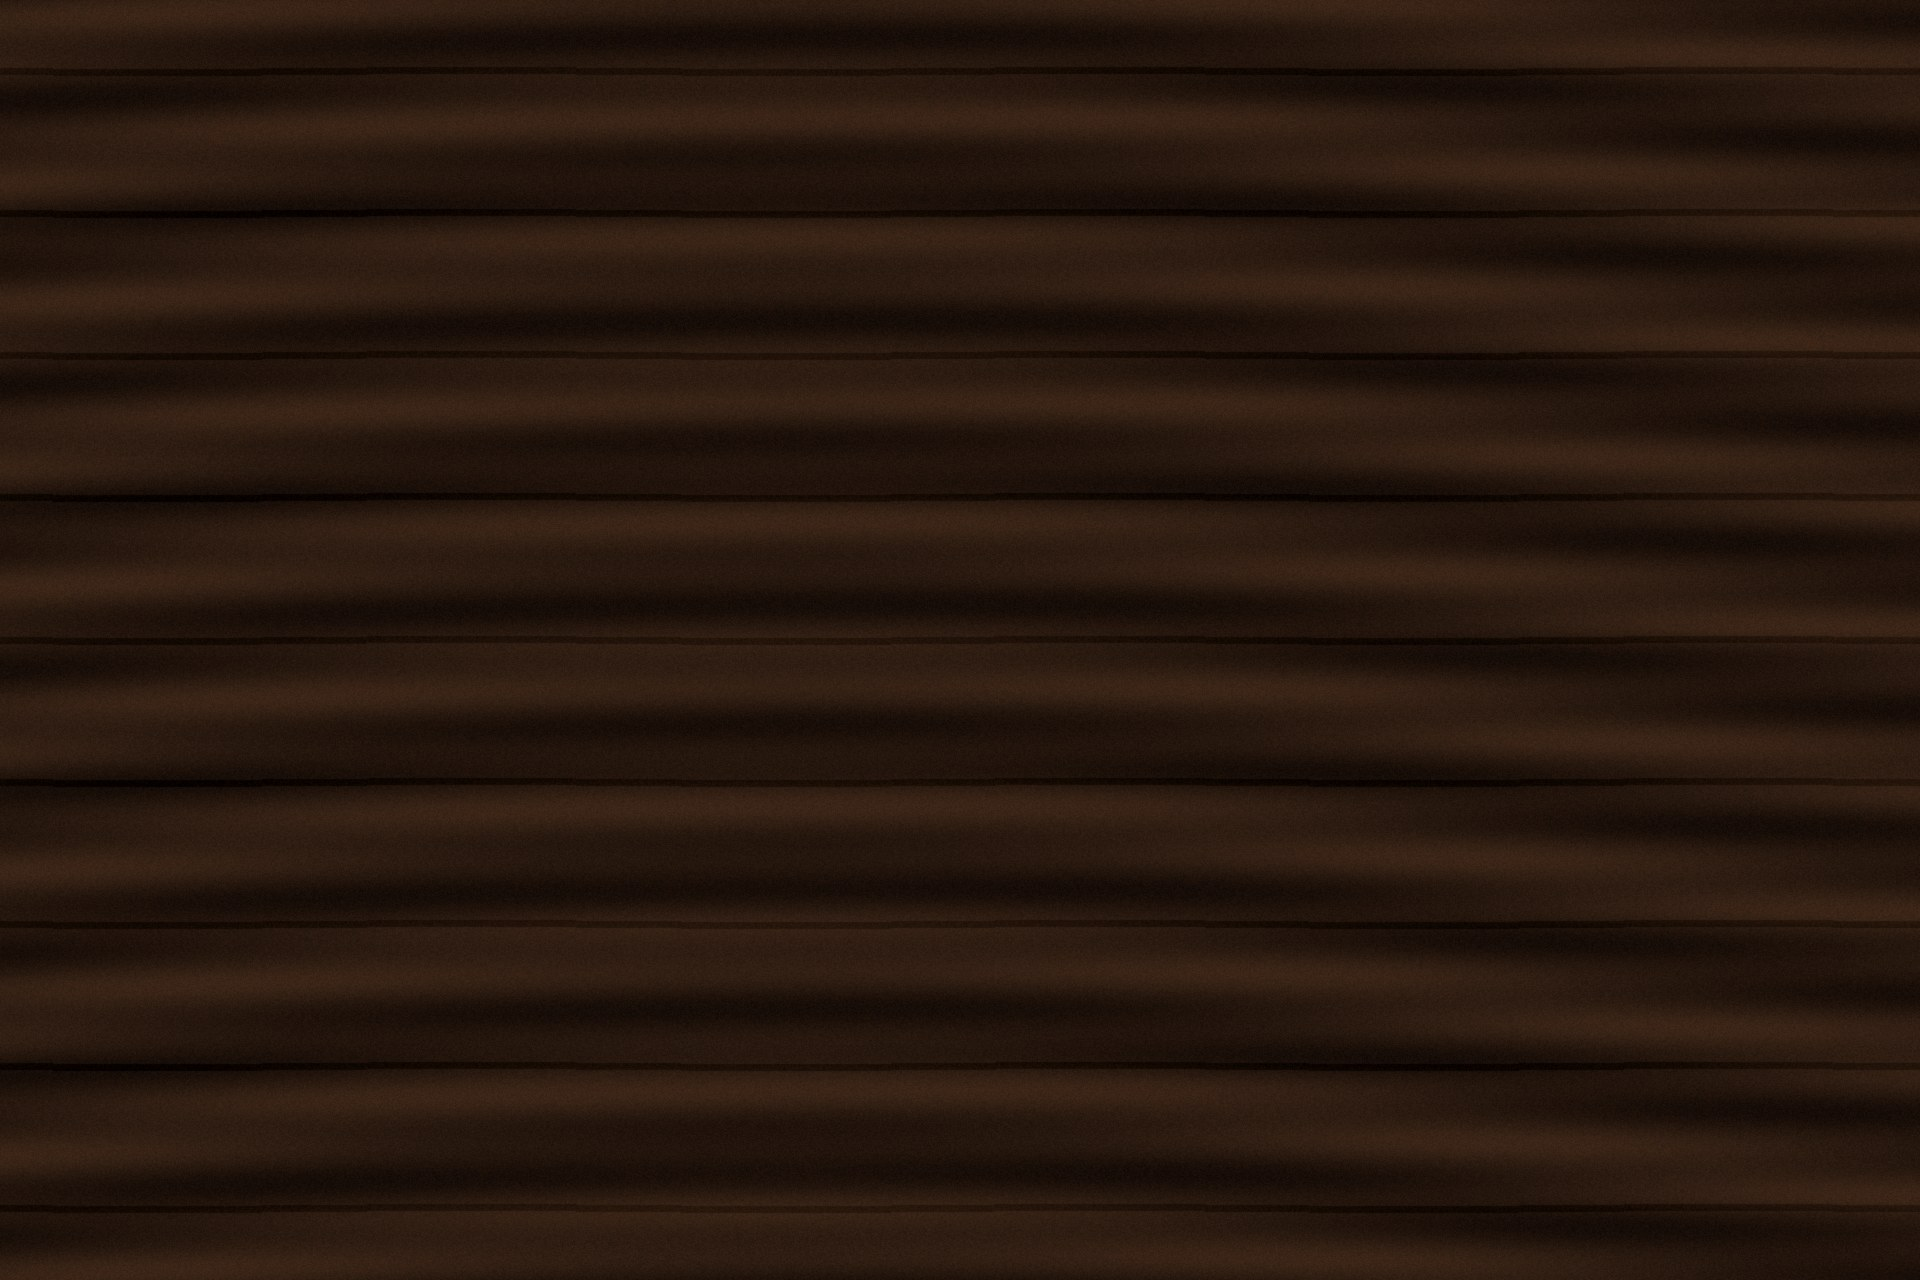
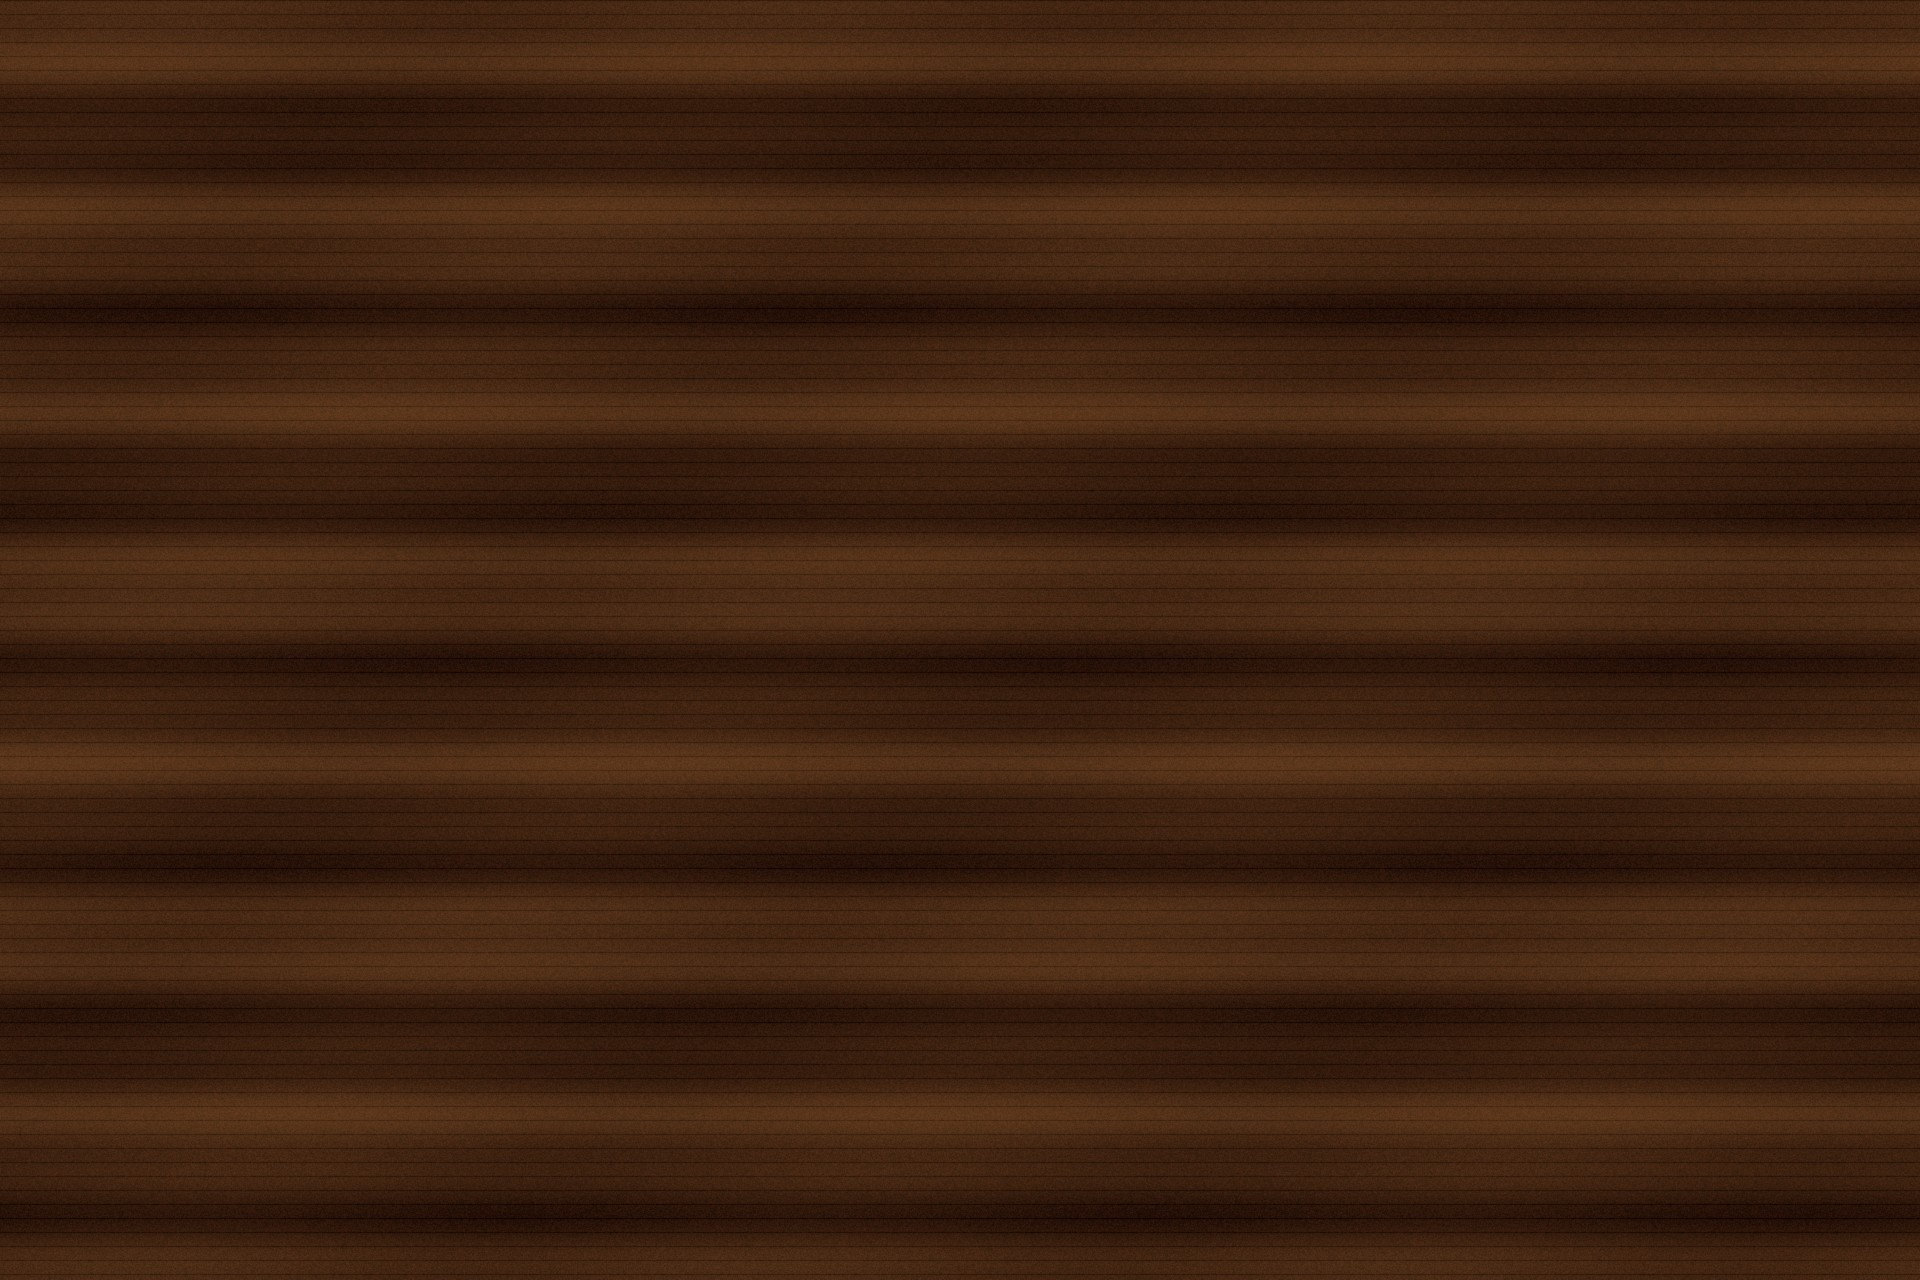
Igualar la composición del video: mesa de madera, café, stylus y lookbook Vinicius.

diff --git a/web/css/app.css b/web/css/app.css
@@ -302,17 +302,18 @@ body.product-page .site-header.scrolled {
 .btn.small { padding: 8px 14px; font-size: 14px; }
 .btn:disabled { opacity: .45; cursor: not-allowed; }
 .btn.touch {
-  background: transparent;
-  color: #fff;
-  border: 1px solid rgba(255, 255, 255, 0.55);
+  background: #fff;
+  color: #111;
+  border: 0;
   border-radius: 8px;
-  padding: 10px 16px;
-  font-size: 12px;
-  letter-spacing: 0.06em;
+  padding: 10px 18px;
+  font-size: 13px;
+  letter-spacing: 0.02em;
   text-transform: none;
   font-weight: 500;
 }
-.btn.touch:hover { background: #fff; color: #111; border-color: #fff; }
+.btn.touch:hover { background: var(--red); color: #fff; }
+body.home .btn.touch { box-shadow: 0 8px 24px rgba(0, 0, 0, 0.35); }
 
 body.home {
   overflow-x: hidden;
@@ -350,28 +351,28 @@ body.home .brand img { height: 36px; }
   overflow: hidden;
   display: grid;
   place-items: center;
-  align-content: center;
-  padding: 70px 2vw 36px;
-  background: #030201;
+  align-content: end;
+  padding: 64px 2vw 8vh;
+  background: #050302;
 }
 .desk-wood {
   position: absolute;
-  inset: -20%;
+  inset: -8% -4% -18%;
   background:
-    url("../assets/desk-wood.jpg") center 60% / cover no-repeat,
-    #120c09;
-  transform: perspective(1600px) rotateX(calc(28deg + var(--my) * 2.5deg)) rotateY(calc(var(--mx) * 1.5deg)) scale(1.22);
-  transform-origin: 50% 60%;
-  filter: contrast(1.14) saturate(0.8) brightness(0.58);
+    url("../assets/desk-wood.jpg") center 45% / cover no-repeat,
+    #2a1c12;
+  transform: perspective(1400px) rotateX(calc(32deg + var(--my) * 2deg)) rotateY(calc(var(--mx) * 1.2deg)) scale(1.15);
+  transform-origin: 50% 70%;
+  filter: contrast(1.08) saturate(0.95) brightness(0.85);
   pointer-events: none;
 }
 .desk-glow {
   position: absolute;
   inset: 0;
   background:
-    radial-gradient(42% 34% at 50% 62%, rgba(255, 214, 170, 0.32), transparent 70%),
-    radial-gradient(28% 22% at 50% 58%, rgba(229, 44, 59, 0.14), transparent 72%),
-    radial-gradient(75% 65% at 50% 55%, transparent 20%, rgba(0, 0, 0, 0.88) 100%);
+    radial-gradient(48% 38% at 50% 68%, rgba(255, 210, 160, 0.38), transparent 72%),
+    radial-gradient(30% 24% at 50% 62%, rgba(229, 44, 59, 0.12), transparent 70%),
+    radial-gradient(80% 70% at 50% 60%, transparent 18%, rgba(0, 0, 0, 0.72) 100%);
   pointer-events: none;
   z-index: 1;
 }
@@ -379,36 +380,52 @@ body.home .brand img { height: 36px; }
   position: absolute;
   inset: 0;
   background:
-    radial-gradient(55% 50% at 50% 48%, transparent 30%, rgba(0, 0, 0, 0.9) 100%),
-    linear-gradient(180deg, rgba(0, 0, 0, 0.6) 0%, transparent 16%, transparent 84%, rgba(0, 0, 0, 0.75) 100%);
+    radial-gradient(70% 58% at 50% 55%, transparent 38%, rgba(0, 0, 0, 0.78) 100%),
+    linear-gradient(180deg, rgba(0, 0, 0, 0.7) 0%, transparent 22%, transparent 78%, rgba(0, 0, 0, 0.55) 100%);
   pointer-events: none;
   z-index: 2;
 }
 .desk-prop {
   position: absolute;
   z-index: 4;
-  width: clamp(70px, 9vw, 140px);
   transform: rotate(var(--rot, 0deg));
-  transition: filter 0.28s ease;
-  filter: drop-shadow(0 24px 20px rgba(0, 0, 0, 0.68));
+  filter: drop-shadow(0 18px 14px rgba(0, 0, 0, 0.55));
   will-change: transform;
 }
-.desk-prop img { width: 100%; height: auto; pointer-events: none; }
-.desk-prop.prop-a { left: 3%; top: 18%; width: clamp(72px, 8vw, 120px); }
-.desk-prop.prop-b { right: 4%; top: 14%; width: clamp(64px, 7vw, 108px); }
-.desk-prop.prop-c { left: 5%; bottom: 10%; width: clamp(40px, 4.5vw, 64px); }
-.desk-prop.prop-d { right: 6%; bottom: 12%; width: clamp(38px, 4.2vw, 60px); }
+.desk-prop img { width: 100%; height: auto; pointer-events: none; display: block; }
+.desk-prop.prop-coffee {
+  right: 5%;
+  top: 16%;
+  width: clamp(110px, 14vw, 190px);
+  transform: none;
+}
+.desk-prop.prop-stylus {
+  left: 6%;
+  bottom: 18%;
+  width: clamp(140px, 18vw, 240px);
+  transform: rotate(-28deg);
+}
+.desk-prop.prop-product {
+  left: 8%;
+  top: 22%;
+  width: clamp(56px, 6vw, 88px);
+}
+.desk-prop.prop-product-b {
+  right: 10%;
+  bottom: 16%;
+  width: clamp(44px, 5vw, 70px);
+}
 .desk-prop:hover {
   z-index: 9;
-  filter: drop-shadow(0 26px 22px rgba(229, 44, 59, 0.4)) brightness(1.08);
+  filter: drop-shadow(0 22px 18px rgba(0, 0, 0, 0.65)) brightness(1.05);
 }
 
 .desk-intro {
   position: absolute;
-  left: clamp(18px, 5vw, 56px);
-  top: 26%;
+  left: clamp(18px, 4.5vw, 48px);
+  top: 18%;
   z-index: 6;
-  max-width: min(34ch, 36vw);
+  max-width: min(32ch, 34vw);
   will-change: opacity, transform;
 }
 .desk-intro h1 {
@@ -444,56 +461,69 @@ body.home .brand img { height: 36px; }
 }
 
 .book-stage {
-  --tilt: 18deg;
+  --tilt: 14deg;
   position: relative;
   z-index: 5;
-  width: min(1240px, 94vw);
-  margin: 4vh auto 0;
-  transform: perspective(1600px) rotateX(calc(var(--tilt) + var(--my) * 2deg)) rotateY(calc(var(--mx) * -1.8deg));
+  width: min(1180px, 92vw);
+  margin: 0 auto;
+  transform: perspective(1500px) rotateX(calc(var(--tilt) + var(--my) * 1.5deg)) rotateY(calc(var(--mx) * -1.2deg));
   transform-style: preserve-3d;
 }
 .book-shadow {
   position: absolute;
-  left: 6%;
-  right: 6%;
-  bottom: -6%;
-  height: 14%;
-  background: radial-gradient(50% 70% at 50% 35%, rgba(0, 0, 0, 0.88), transparent 74%);
-  filter: blur(12px);
+  left: 3%;
+  right: 3%;
+  bottom: -7%;
+  height: 16%;
+  background: radial-gradient(48% 70% at 50% 30%, rgba(0, 0, 0, 0.9), transparent 72%);
+  filter: blur(14px);
   pointer-events: none;
   z-index: 0;
+}
+.book-edge {
+  position: absolute;
+  left: 1%;
+  right: 1%;
+  bottom: -1.2%;
+  height: 2.2%;
+  border-radius: 0 0 3px 3px;
+  background: linear-gradient(180deg, #1a1a1c, #050505);
+  box-shadow: 0 2px 0 rgba(255, 255, 255, 0.04);
+  z-index: 1;
+  pointer-events: none;
+  opacity: 0.95;
 }
 .hard-cover {
   position: absolute;
   z-index: 12;
   left: 50%;
   top: 50%;
-  width: min(78%, 860px);
-  aspect-ratio: 1.52 / 1;
+  width: min(70%, 760px);
+  aspect-ratio: 1.55 / 1;
   transform: translate(-50%, -50%) rotateY(0deg);
   transform-origin: left center;
   transform-style: preserve-3d;
   will-change: transform, opacity;
-  border-radius: 3px;
+  border-radius: 2px;
   box-shadow:
-    0 50px 90px rgba(0, 0, 0, 0.78),
-    0 0 0 1px rgba(255, 255, 255, 0.05),
-    inset 0 1px 0 rgba(255, 255, 255, 0.08);
+    0 40px 70px rgba(0, 0, 0, 0.7),
+    0 0 0 1px rgba(255, 255, 255, 0.04),
+    inset 0 1px 0 rgba(255, 255, 255, 0.07);
 }
 .hard-cover-face {
   width: 100%;
   height: 100%;
-  border-radius: 4px;
+  border-radius: 2px;
   display: grid;
   place-items: center;
   background:
-    radial-gradient(55% 45% at 50% 52%, rgba(229, 44, 59, 0.1), transparent 70%),
-    linear-gradient(155deg, #1c1c20 0%, #08080a 50%, #151518 100%);
+    radial-gradient(50% 40% at 50% 48%, rgba(229, 44, 59, 0.08), transparent 70%),
+    linear-gradient(160deg, #17171a 0%, #070708 52%, #121215 100%);
 }
 .hard-cover-face img {
-  width: min(56%, 260px);
+  width: min(52%, 240px);
   height: auto;
-  opacity: 0.96;
+  opacity: 0.95;
 }
 .book-stage[data-open="0"] .flip-root {
   opacity: 0;
@@ -508,7 +538,7 @@ body.home .brand img { height: 36px; }
   z-index: 2;
   width: 100%;
   margin: 0 auto;
-  filter: drop-shadow(0 34px 48px rgba(0, 0, 0, 0.62));
+  filter: drop-shadow(0 28px 40px rgba(0, 0, 0, 0.55));
   transition: opacity 0.35s ease;
 }
 .flip-root .stf__parent {
@@ -1219,15 +1249,16 @@ td img { width: 72px; height: 48px; object-fit: cover; border-radius: 8px; }
   }
   .desk-intro h1 { font-size: clamp(24px, 7vw, 34px); }
   .desk-intro p { margin-left: auto; margin-right: auto; }
-  .desk-prop { display: none; }
-  .desk-prop.prop-a,
-  .desk-prop.prop-b {
+  .desk-prop.prop-product,
+  .desk-prop.prop-product-b,
+  .desk-prop.prop-stylus { display: none; }
+  .desk-prop.prop-coffee {
     display: block;
-    width: 64px;
-    opacity: 0.88;
+    width: 88px;
+    right: 3%;
+    top: 14%;
+    opacity: 0.92;
   }
-  .desk-prop.prop-a { left: 2%; top: 18%; }
-  .desk-prop.prop-b { right: 2%; top: 20%; }
   .book-stage {
     width: 96vw;
     --tilt: 10deg;

diff --git a/web/js/views.js b/web/js/views.js
@@ -105,43 +105,35 @@ function lookSpreads() {
   const n = (VM.products || []).length;
   return [
     {
-      left: lookFace({ kicker: "Índice", title: "Vinicius<br>Molding.", text: "Cuidado capilar masculino. Somos la solución, no el problema.", tone: "light", href: "#/catalogo", accent: "#E52C3B", img: "assets/isotipo-red.png", note: `${n} piezas` }),
-      right: lookFace({ item: by("cera-brillo"), kicker: "Línea Molding", title: "Cada capa<br>cuenta.", text: "Ceras, pasta y pomada para armar el peinado." }),
+      left: lookFace({ kicker: "La casa", title: "Somos la<br>solución.", text: "No el problema. Cuidado capilar masculino hecho en Cali.", tone: "light", href: "#/catalogo", accent: "#E52C3B", img: "assets/isotipo-red.png", note: `${n} piezas` }),
+      right: lookFace({ item: by("cera-brillo"), kicker: "Línea Molding", title: "Cada capa<br>cuenta.", text: "Ceras, pasta y pomada para armar el peinado.", accent: "#E52C3B" }),
     },
     {
-      left: lookFace({ item: by("cera-fibra"), kicker: "Fibra", title: "Textura<br>viva.", text: "Agarre y volumen sin peso." }),
-      right: lookFace({ item: by("pasta"), kicker: "Pasta", title: "Mate<br>definido.", text: "Acabado seco para peinados diarios.", tone: "light" }),
+      left: lookFace({ item: by("cera-fibra"), kicker: "Fibra", title: "Textura<br>viva.", text: "Agarre y volumen sin peso.", accent: "#7B2CBF" }),
+      right: lookFace({ item: by("pasta"), kicker: "Pasta", title: "Mate<br>definido.", text: "Acabado seco para peinados diarios.", tone: "light", accent: "#00C8C2" }),
     },
     {
-      left: lookFace({ item: by("pasta-minoxidil"), kicker: "Ingeniería", title: "Una pieza<br>de oficio.", text: "Minoxidil, pantenol y romero a base de cera de abeja." }),
-      right: lookFace({ item: by("gel-cubre-canas"), kicker: "Acabado", title: "Canas bajo<br>control.", text: "Acabado húmedo brillante.", tone: "light" }),
+      left: lookFace({ item: by("pasta-minoxidil"), kicker: "Ingeniería", title: "Una pieza<br>de oficio.", text: "Minoxidil, pantenol y romero a base de cera de abeja.", accent: "#00C8C2" }),
+      right: lookFace({ item: by("gel-cubre-canas"), kicker: "Acabado", title: "Canas bajo<br>control.", text: "Acabado húmedo brillante.", tone: "light", accent: "#E52C3B" }),
     },
     {
-      left: lookFace({ item: by("tonico"), kicker: "Tratamiento", title: "Tónico<br>orgánico.", text: "19 activos para el cuero cabelludo." }),
-      right: lookFace({ item: by("serum-barba"), kicker: "Barba", title: "Serum vivo<br>en la mesa.", text: "Argán, jojoba y aloe vera.", tone: "light" }),
+      left: lookFace({ item: by("tonico"), kicker: "Tratamiento", title: "Tónico<br>orgánico.", text: "19 activos para el cuero cabelludo.", accent: "#00C8C2" }),
+      right: lookFace({ item: by("serum-barba"), kicker: "Barba", title: "Serum vivo<br>en la mesa.", text: "Argán, jojoba y aloe vera.", tone: "light", accent: "#A4D800" }),
     },
     {
-      left: lookFace({ item: by("shampoo-proteccion"), kicker: "Limpieza", title: "Sin sal.<br>Con oficio.", text: "Protección capilar diaria." }),
-      right: lookFace({ item: by("ducha-intima"), kicker: "Cuerpo", title: "Ducha íntima<br>for men.", text: "Sin fragancia ni parabenos.", tone: "light" }),
+      left: lookFace({ item: by("shampoo-proteccion"), kicker: "Limpieza", title: "Sin sal.<br>Con oficio.", text: "Protección capilar diaria.", accent: "#E52C3B" }),
+      right: lookFace({ item: by("ducha-intima"), kicker: "Cuerpo", title: "Ducha íntima<br>for men.", text: "Sin fragancia ni parabenos.", tone: "light", accent: "#FFD300" }),
     },
     {
-      left: lookFace({ item: by("splash"), kicker: "Splash", title: "Body splash<br>for men.", text: "Eucalipto y mentol. 250 ml." }),
+      left: lookFace({ item: by("splash"), kicker: "Splash", title: "Body splash<br>for men.", text: "Eucalipto y mentol. 250 ml.", accent: "#A4D800" }),
       right: lookFace({ kicker: "Catálogo", title: "Toda la línea<br>en un clic.", text: "Abre el catálogo y elige la pieza.", href: "#/catalogo", accent: "#E52C3B", tone: "cta", img: "assets/isotipo-red.png", note: "Ver catálogo" }),
     },
   ];
 }
 
 function viewDesk() {
-  const props = [
-    ["cera-brillo", "prop-a", "14", "-14"],
-    ["tonico", "prop-c", "18", "8"],
-    ["serum-barba", "prop-d", "12", "-8"],
-    ["pomada", "prop-b", "10", "12"],
-  ].map(([id, cls, depth, rot]) => {
-    const item = productById(id);
-    if (!item) return "";
-    return `<a class="desk-prop ${cls}" href="#/producto/${esc(item.id)}" aria-label="${esc(item.name)}" data-depth="${depth}" data-rot="${rot}" style="--rot:${rot}deg"><img src="${esc(cutoutSrc(item.image))}" alt="" draggable="false"></a>`;
-  }).join("");
+  const tin = productById("cera-brillo");
+  const serum = productById("serum-barba");
   const spreads = lookSpreads();
   const pages = spreads.flatMap((spread) => [
     `<div class="flip-page">${spread.left}</div>`,
@@ -154,13 +146,17 @@ function viewDesk() {
         <div class="desk-wood" aria-hidden="true"></div>
         <div class="desk-glow" aria-hidden="true"></div>
         <div class="desk-vignette" aria-hidden="true"></div>
-        ${props}
+        <div class="desk-prop prop-coffee" data-depth="10" data-rot="0" aria-hidden="true"><img src="assets/prop-coffee.png" alt="" draggable="false"></div>
+        <div class="desk-prop prop-stylus" data-depth="14" data-rot="-28" aria-hidden="true"><img src="assets/prop-stylus.png" alt="" draggable="false"></div>
+        ${tin ? `<a class="desk-prop prop-product" href="#/producto/${esc(tin.id)}" aria-label="${esc(tin.name)}" data-depth="12" data-rot="-16" style="--rot:-16deg"><img src="${esc(cutoutSrc(tin.image))}" alt="" draggable="false"></a>` : ""}
+        ${serum ? `<a class="desk-prop prop-product-b" href="#/producto/${esc(serum.id)}" aria-label="${esc(serum.name)}" data-depth="11" data-rot="10" style="--rot:10deg"><img src="${esc(cutoutSrc(serum.image))}" alt="" draggable="false"></a>` : ""}
         <div class="desk-intro" data-desk-intro>
           <h1>Lookbook interactivo<br>que puedes explorar</h1>
           <p>Desliza la rueda. El cuaderno se abre y las páginas giran como en papel.</p>
         </div>
         <div class="book-stage" data-book-stage data-open="0">
           <div class="book-shadow" aria-hidden="true"></div>
+          <div class="book-edge" aria-hidden="true"></div>
           <div class="hard-cover" data-hard-cover>
             <div class="hard-cover-face">
               <img src="assets/logo-white.png" alt="Vinicius Molding">

diff --git a/web/index.html b/web/index.html
@@ -6,11 +6,11 @@
   <title>Vinicius Molding · Cuidado capilar masculino</title>
   <meta name="description" content="Vinicius Molding. Cuidado capilar masculino hecho en Cali. Somos la solución, no el problema.">
   <meta name="theme-color" content="#000000">
-  <link rel="icon" type="image/png" href="assets/favicon.png?v=90">
+  <link rel="icon" type="image/png" href="assets/favicon.png?v=91">
   <link rel="preconnect" href="https://fonts.googleapis.com">
   <link rel="preconnect" href="https://fonts.gstatic.com" crossorigin>
   <link href="https://fonts.googleapis.com/css2?family=Outfit:wght@300;400;500;600;700&family=Poppins:wght@300;400;500;600&display=swap" rel="stylesheet">
-  <link rel="stylesheet" href="css/app.css?v=90">
+  <link rel="stylesheet" href="css/app.css?v=91">
 </head>
 <body class="site">
   <div id="app">
@@ -19,14 +19,14 @@
       <p>Vinicius Molding</p>
     </div>
   </div>
-  <script src="js/three.min.js?v=90"></script>
-  <script src="js/page-flip.browser.js?v=90"></script>
-  <script src="js/volume.js?v=90"></script>
-  <script src="js/site.js?v=90"></script>
-  <script src="js/api.js?v=90"></script>
-  <script src="js/views.js?v=90"></script>
-  <script src="js/desk.js?v=90"></script>
-  <script src="js/admin.js?v=90"></script>
-  <script src="js/app.js?v=90"></script>
+  <script src="js/three.min.js?v=91"></script>
+  <script src="js/page-flip.browser.js?v=91"></script>
+  <script src="js/volume.js?v=91"></script>
+  <script src="js/site.js?v=91"></script>
+  <script src="js/api.js?v=91"></script>
+  <script src="js/views.js?v=91"></script>
+  <script src="js/desk.js?v=91"></script>
+  <script src="js/admin.js?v=91"></script>
+  <script src="js/app.js?v=91"></script>
 </body>
 </html>
